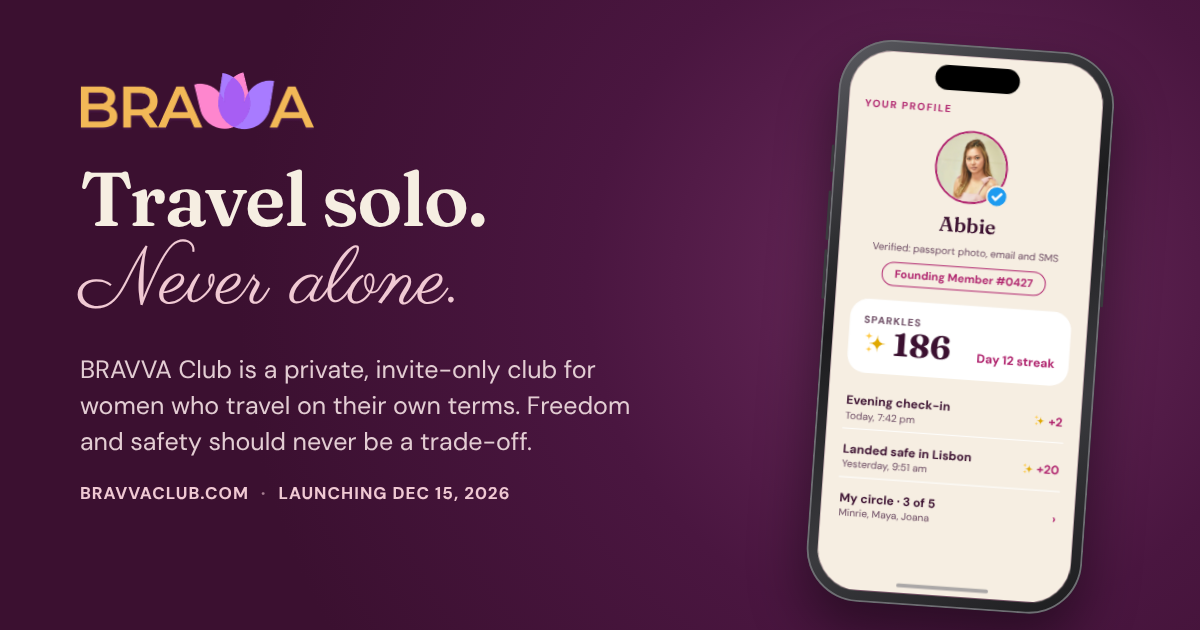
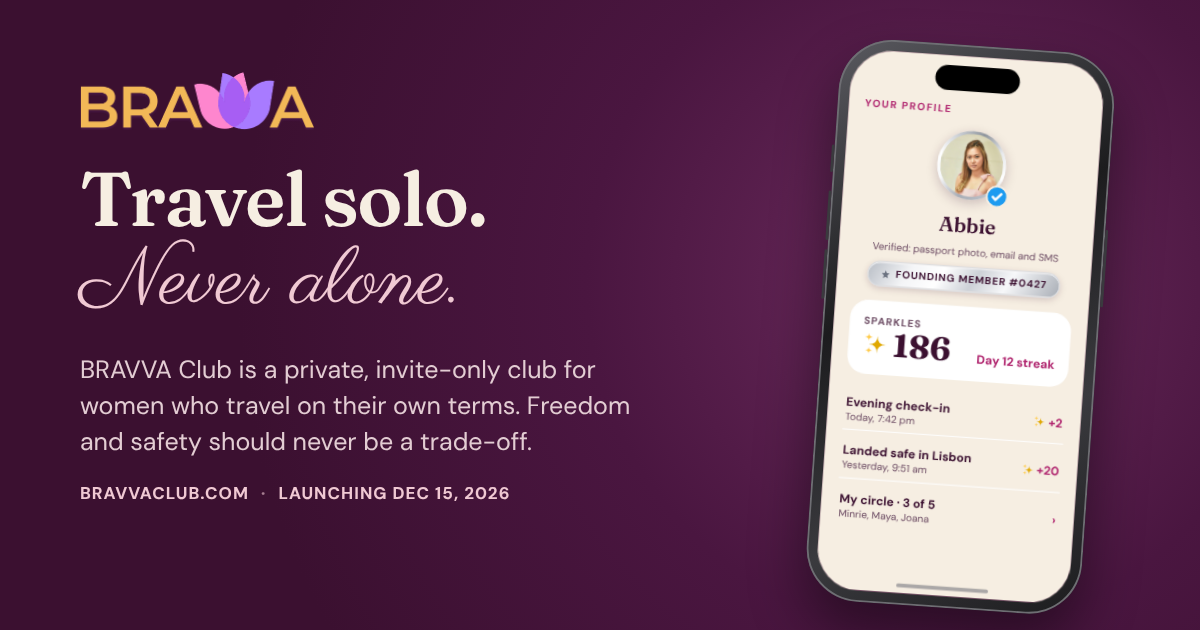
Founding member badge

diff --git a/index.html b/index.html
@@ -66,10 +66,10 @@
 <div role="img" aria-label="BRAVVA app preview cycling through Profile, Passport, Trips, Daily ritual, Plan timer and Chat" class="bv-device" style="position: relative; width: 300px; height: 612px; box-sizing: border-box; border-radius: 58px; padding: 12px; background: linear-gradient(145deg, #5A5A60, #1C1C1E 40%, #3A3A3E 70%, #1C1C1E); box-shadow: 0 30px 60px rgba(0,0,0,0.45), inset 0 0 0 2px #6E6E73"><span aria-hidden="true" style="position: absolute; left: -3px; top: 118px; width: 3px; height: 30px; border-radius: 2px; background: #3A3A3E"></span><span aria-hidden="true" style="position: absolute; left: -3px; top: 168px; width: 3px; height: 54px; border-radius: 2px; background: #3A3A3E"></span><span aria-hidden="true" style="position: absolute; left: -3px; top: 232px; width: 3px; height: 54px; border-radius: 2px; background: #3A3A3E"></span><span aria-hidden="true" style="position: absolute; right: -3px; top: 190px; width: 3px; height: 84px; border-radius: 2px; background: #3A3A3E"></span><div style="position: relative; width: 276px; height: 588px; border-radius: 46px; overflow: hidden; background: #3B1030"><div class="bv-slide" style="animation-delay: 0s" aria-hidden="false"><div role="img" aria-label="Profile screen: Abbie with a blue verified tick, Founding Member number 0427 badge, 340 Sparkles, a 12-day check-in streak and recent Sparkles" style="color: #3B1030; width: 250px; height: 532px; box-sizing: border-box; border-radius: 0; border: 0; background: #F6EEE2; overflow: hidden; padding: 46px 16px 16px; display: flex; flex-direction: column; gap: 14px">
 <div style="font-size: 10px; font-weight: 700; letter-spacing: 0.14em; text-transform: uppercase; color: #B0246E">Your profile</div>
 <div style="display: flex; flex-direction: column; align-items: center; gap: 8px; text-align: center">
-<span style="position: relative; display: block; width: 72px; height: 72px"><img src="images/abbie.jpg" alt="" style="width: 68px; height: 68px; border-radius: 50%; object-fit: cover; border: 2px solid #B0246E"/><span style="position: absolute; right: -2px; bottom: -2px; width: 22px; height: 22px; display: block"><svg viewBox="0 0 24 24" width="22" height="22" aria-hidden="true" style="display: block"><circle cx="12" cy="12" r="11" fill="#1D9BF0" stroke="#F6EEE2" stroke-width="2"/><path d="M7.5 12.5l3 3 6-6.5" fill="none" stroke="#FFFFFF" stroke-width="2.6" stroke-linecap="round" stroke-linejoin="round"/></svg></span></span>
+<span style="position: relative; display: block; width: 72px; height: 72px"><img src="images/abbie.jpg" alt="" style="width: 62px; height: 62px; padding: 3px; border-radius: 50%; object-fit: cover; background: conic-gradient(from 200deg, #A9AEB6, #F7F8FA, #FFFFFF, #C9CDD3, #8E949C, #E9EBEE, #FFFFFF, #B9BEC6, #A9AEB6); box-shadow: 0 3px 10px rgba(59, 16, 48, 0.22)"/><span style="position: absolute; right: -2px; bottom: -2px; width: 22px; height: 22px; display: block"><svg viewBox="0 0 24 24" width="22" height="22" aria-hidden="true" style="display: block"><circle cx="12" cy="12" r="11" fill="#1D9BF0" stroke="#F6EEE2" stroke-width="2"/><path d="M7.5 12.5l3 3 6-6.5" fill="none" stroke="#FFFFFF" stroke-width="2.6" stroke-linecap="round" stroke-linejoin="round"/></svg></span></span>
 <div style="font-family: 'Fraunces', Georgia, serif; font-weight: 600; font-size: 20px">Abbie</div>
 <div style="font-size: 10px; color: #6B4A62">Verified: passport photo, email and SMS</div>
-<span style="border: 1.5px solid #B0246E; border-radius: 999px; padding: 4px 12px; font-size: 11px; font-weight: 700; color: #B0246E">Founding Member #0427</span>
+<span style="display: inline-flex; align-items: center; gap: 5px; background: linear-gradient(120deg, #B9BEC6 0%, #F4F5F7 22%, #FFFFFF 38%, #CDD1D7 55%, #F7F8FA 72%, #A9AEB6 100%); border: 1px solid #D9DCE1; box-shadow: 0 2px 6px rgba(59, 16, 48, 0.18), inset 0 1px 0 rgba(255,255,255,0.9); color: #3B1030; border-radius: 999px; font-weight: 700; letter-spacing: 0.08em; text-transform: uppercase; padding: 5px 12px; font-size: 10px"><svg width="10" height="10" viewBox="0 0 24 24" aria-hidden="true" style="flex-shrink: 0"><path d="M12 2l2.6 6.6L21.5 9l-5.3 4.6L17.9 21 12 17.3 6.1 21l1.7-7.4L2.5 9l6.9-.4z" fill="#6B7280"/></svg>Founding Member #0427</span>
 </div>
 <div style="background: #FFFFFF; border-radius: 18px; padding: 14px; display: flex; justify-content: space-between; align-items: flex-end">
 <div><div style="font-size: 10px; font-weight: 700; letter-spacing: 0.1em; text-transform: uppercase; color: #6B4A62">Sparkles</div><div style="font-family: 'Fraunces', Georgia, serif; font-weight: 700; font-size: 32px; line-height: 1; display: flex; align-items: center; gap: 6px"><svg width="24" height="24" viewBox="0 0 24 24" aria-hidden="true" style="flex-shrink: 0"><path d="M14.5 4.0Q14.5 12.5 23.0 12.5Q14.5 12.5 14.5 21.0Q14.5 12.5 6.0 12.5Q14.5 12.5 14.5 4.0Z" fill="#E0A800"/><path d="M6 1.5Q6 5.5 10 5.5Q6 5.5 6 9.5Q6 5.5 2 5.5Q6 5.5 6 1.5Z" fill="#FFCC4D"/><path d="M6.5 15.0Q6.5 18.5 10.0 18.5Q6.5 18.5 6.5 22.0Q6.5 18.5 3.0 18.5Q6.5 18.5 6.5 15.0Z" fill="#FFCC4D"/></svg>186</div></div>
@@ -205,10 +205,10 @@
 <div role="img" aria-label="Profile screen: Abbie with a blue verified tick, Founding Member number 0427 badge, 340 Sparkles, a 12-day check-in streak and recent Sparkles" style="color: #3B1030; width: 250px; height: 520px; box-sizing: border-box; border-radius: 36px; border: 7px solid #E6D8C5; background: #F6EEE2; overflow: hidden; padding: 26px 16px 16px; display: flex; flex-direction: column; gap: 14px">
 <div style="font-size: 10px; font-weight: 700; letter-spacing: 0.14em; text-transform: uppercase; color: #B0246E">Your profile</div>
 <div style="display: flex; flex-direction: column; align-items: center; gap: 8px; text-align: center">
-<span style="position: relative; display: block; width: 72px; height: 72px"><img src="images/abbie.jpg" alt="" style="width: 68px; height: 68px; border-radius: 50%; object-fit: cover; border: 2px solid #B0246E"/><span style="position: absolute; right: -2px; bottom: -2px; width: 22px; height: 22px; display: block"><svg viewBox="0 0 24 24" width="22" height="22" aria-hidden="true" style="display: block"><circle cx="12" cy="12" r="11" fill="#1D9BF0" stroke="#F6EEE2" stroke-width="2"/><path d="M7.5 12.5l3 3 6-6.5" fill="none" stroke="#FFFFFF" stroke-width="2.6" stroke-linecap="round" stroke-linejoin="round"/></svg></span></span>
+<span style="position: relative; display: block; width: 72px; height: 72px"><img src="images/abbie.jpg" alt="" style="width: 62px; height: 62px; padding: 3px; border-radius: 50%; object-fit: cover; background: conic-gradient(from 200deg, #A9AEB6, #F7F8FA, #FFFFFF, #C9CDD3, #8E949C, #E9EBEE, #FFFFFF, #B9BEC6, #A9AEB6); box-shadow: 0 3px 10px rgba(59, 16, 48, 0.22)"/><span style="position: absolute; right: -2px; bottom: -2px; width: 22px; height: 22px; display: block"><svg viewBox="0 0 24 24" width="22" height="22" aria-hidden="true" style="display: block"><circle cx="12" cy="12" r="11" fill="#1D9BF0" stroke="#F6EEE2" stroke-width="2"/><path d="M7.5 12.5l3 3 6-6.5" fill="none" stroke="#FFFFFF" stroke-width="2.6" stroke-linecap="round" stroke-linejoin="round"/></svg></span></span>
 <div style="font-family: 'Fraunces', Georgia, serif; font-weight: 600; font-size: 20px">Abbie</div>
 <div style="font-size: 10px; color: #6B4A62">Verified: passport photo, email and SMS</div>
-<span style="border: 1.5px solid #B0246E; border-radius: 999px; padding: 4px 12px; font-size: 11px; font-weight: 700; color: #B0246E">Founding Member #0427</span>
+<span style="display: inline-flex; align-items: center; gap: 5px; background: linear-gradient(120deg, #B9BEC6 0%, #F4F5F7 22%, #FFFFFF 38%, #CDD1D7 55%, #F7F8FA 72%, #A9AEB6 100%); border: 1px solid #D9DCE1; box-shadow: 0 2px 6px rgba(59, 16, 48, 0.18), inset 0 1px 0 rgba(255,255,255,0.9); color: #3B1030; border-radius: 999px; font-weight: 700; letter-spacing: 0.08em; text-transform: uppercase; padding: 5px 12px; font-size: 10px"><svg width="10" height="10" viewBox="0 0 24 24" aria-hidden="true" style="flex-shrink: 0"><path d="M12 2l2.6 6.6L21.5 9l-5.3 4.6L17.9 21 12 17.3 6.1 21l1.7-7.4L2.5 9l6.9-.4z" fill="#6B7280"/></svg>Founding Member #0427</span>
 </div>
 <div style="background: #FFFFFF; border-radius: 18px; padding: 14px; display: flex; justify-content: space-between; align-items: flex-end">
 <div><div style="font-size: 10px; font-weight: 700; letter-spacing: 0.1em; text-transform: uppercase; color: #6B4A62">Sparkles</div><div style="font-family: 'Fraunces', Georgia, serif; font-weight: 700; font-size: 32px; line-height: 1; display: flex; align-items: center; gap: 6px"><svg width="24" height="24" viewBox="0 0 24 24" aria-hidden="true" style="flex-shrink: 0"><path d="M14.5 4.0Q14.5 12.5 23.0 12.5Q14.5 12.5 14.5 21.0Q14.5 12.5 6.0 12.5Q14.5 12.5 14.5 4.0Z" fill="#E0A800"/><path d="M6 1.5Q6 5.5 10 5.5Q6 5.5 6 9.5Q6 5.5 2 5.5Q6 5.5 6 1.5Z" fill="#FFCC4D"/><path d="M6.5 15.0Q6.5 18.5 10.0 18.5Q6.5 18.5 6.5 22.0Q6.5 18.5 3.0 18.5Q6.5 18.5 6.5 15.0Z" fill="#FFCC4D"/></svg>186</div></div>
